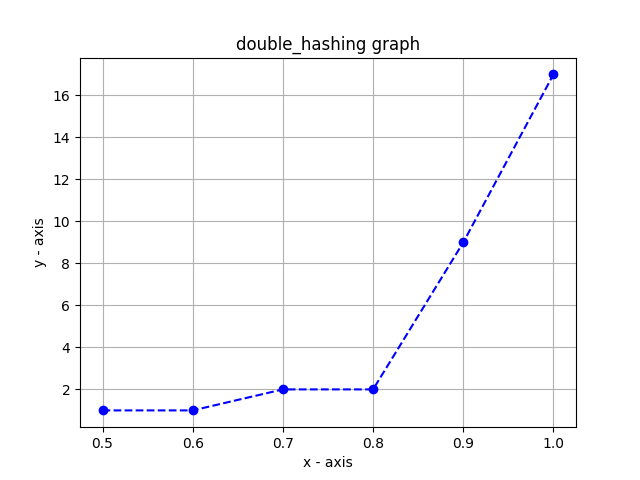
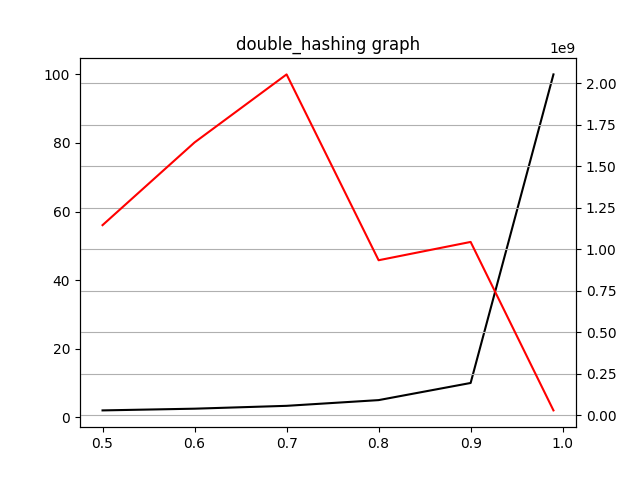
everything is working

diff --git a/probing.cpp b/probing.cpp
@@ -1,4 +1,3 @@
-
 #include <iostream>
 #include <fstream>
 #include <math.h>
@@ -16,12 +15,12 @@ void clearFiles();
 void GenerateArray(int list[], int amount);
 int hashFunction(int key, int n);
 int hashFunction2(int key, int size, int prime);
-void quadraticProbing(int array[], HashEl table[], int hashSize,
+void quadraticProbing(int array[], int hashSize,
                       int arraySize, double loadFactor);
-void linearProbing(int array[], HashEl table[], int hashSize,
+void linearProbing(int array[], int hashSize,
                    int arraySize, double loadFactor);
 
-void doubleHashing(int array[], HashEl table[], int hashSize,
+void doubleHashing(int array[], int hashSize,
                    int arraySize, double loadFactor);
 
 void myHashProbing(int array[], int hashSize,
@@ -30,10 +29,9 @@ void myHashProbing(int array[], int hashSize,
 int main()
 {
 
-    int max = 10;
+    int max = 1000000;
     double loadfactor = 0.5;
     int hashSize = (max);
-    HashEl *table = new HashEl[hashSize];
     int *array;
     int arraySize = 0;
 
@@ -41,29 +39,19 @@ int main()
 
     while (loadfactor <= 0.99)
     {
-        //cout << "Load factor " << loadfactor << endl;
         arraySize = (int)ceil(max * loadfactor);
-        cout << "\nnumber ele "<< arraySize << endl;
+        
         array = new int[arraySize];
         GenerateArray(array, arraySize);
 
-        // cout << "\nQuadratic Probing" << endl;
-        //quadraticProbing(array, table, hashSize, arraySize, loadfactor);
-        //table = new HashEl[hashSize];
+        quadraticProbing(array, hashSize, arraySize, loadfactor);
+        
 
-        // cout << "***********************" << endl;
-
-        //cout << "\nLinear Probing" << endl;
-       //linearProbing(array, table, hashSize, arraySize, loadfactor);
-        //table = new HashEl[hashSize];
-
-        // cout << "***********************" << endl;
-        // cout << "\nDouble Hashing Probing" << endl;
-     //   doubleHashing(array, table, hashSize, arraySize, loadfactor);
+        linearProbing(array, hashSize, arraySize, loadfactor);
+ 
+        doubleHashing(array, hashSize, arraySize, loadfactor);
         myHashProbing(array,  hashSize, arraySize, loadfactor);
-        //table = new HashEl[hashSize];
-
-        // cout << "***********************" << endl;
+    
 
         loadfactor = loadfactor + 0.1;
 
@@ -73,18 +61,18 @@ int main()
     }
 
     delete[] array;
-    delete[] table;
+    
 
     return 0;
 }
 
-void quadraticProbing(int array[], HashEl table2[], int hashSize, int arraySize, double loadFactor)
+void quadraticProbing(int array[], int hashSize, int arraySize, double loadFactor)
 {
     HashEl *table = new HashEl[hashSize];
    
     ofstream resultFile("results/quadratic_probing.txt", std::ios::app);
 
-    int numProbes = 0;
+    int32_t numProbes = 0;
 
 
     for (int i = 0; i < arraySize; i++)
@@ -96,7 +84,7 @@ void quadraticProbing(int array[], HashEl table2[], int hashSize, int arraySize,
         
         if(table[index].set == false){
 
-           cout << "\n INSERT \n" <<endl;
+         
            table[index].set = true;
              table[index].key = keyHash;
            table[index].value = array[i];
@@ -126,14 +114,14 @@ void quadraticProbing(int array[], HashEl table2[], int hashSize, int arraySize,
     resultFile.close();
 }
 
-void linearProbing(int array[], HashEl table2[], int hashSize,
+void linearProbing(int array[],  int hashSize,
                    int arraySize, double loadFactor)
 {
     HashEl *table = new HashEl[hashSize];
 
     ofstream resultFile("results/linear_probing.txt", std::ios::app);
 
-    int numProbes = 0;
+    int32_t numProbes = 0;
 
    
     for (int i = 0; i < arraySize; i++)
@@ -173,48 +161,42 @@ void linearProbing(int array[], HashEl table2[], int hashSize,
     resultFile.close();
 }
 
-void doubleHashing(int array[], HashEl table2[], int hashSize,
+void doubleHashing(int array[], int hashSize,
                    int arraySize, double loadFactor)
 {
      HashEl *table = new HashEl[hashSize];
     ofstream resultFile("results/double_hashing.txt", std::ios::app);
 
     int32_t numProbes = 0;
-    //int prime = getPrime(hashSize);
   
-
     for (int i = 0; i < arraySize; i++)
     {
         int x = 1;
         int keyHash = hashFunction(array[i], hashSize);
 
         int index = keyHash;
-       // cout << "num to insert " << array[i] << endl;
-       // cout << "num to insert " << array[i] << endl;
-
+       
         if(table[index].set == false){
-
-        //   cout << "\n INSERT \n" <<endl;
+ 
            table[index].set = true;
             table[index].value = array[i];
             table[index].key = keyHash;
-           // cout << "***index " << index << endl;
+         
 
         } else{
-           // int keyhash2 = hashFunction2(array[i], hashSize, 7);
+         
             while (table[index].set == true)
             {
                 int test = (x * (7 - (keyHash % 7)));
-               // cout << "test#### << " << test << endl;
+               
                 index = abs((keyHash + test) % hashSize);
                 x++;
 
                 numProbes++;
             }
              
-          //   cout << "***index " << index << endl;
+        
              table[index].set = true;
-             //cout << "\n INSERT 2 \n" <<endl;
              table[index].key = keyHash;
              table[index].value = array[i];
         }
@@ -222,8 +204,6 @@ void doubleHashing(int array[], HashEl table2[], int hashSize,
         
     }
 
-
-    cout << "Probing amount : " << numProbes << endl;
 
     resultFile << "x = " << loadFactor << " y = "
                << abs(numProbes) << endl;
@@ -236,7 +216,7 @@ void myHashProbing(int array[], int hashSize,
                    int arraySize, double loadFactor){
     HashEl *table = new HashEl[hashSize];
    
-    ofstream resultFile("results/quadratic_probing.txt", std::ios::app);
+    ofstream resultFile("results/my_hash_probing.txt", std::ios::app);
 
     int numProbes = 0;
 
@@ -258,10 +238,11 @@ void myHashProbing(int array[], int hashSize,
 
             while (table[index].set == true)
             {
-                index = ((keyHash + keyHash) % 7) % hashSize;
+                
+                index = (keyHash + (x * x * x) + (keyHash/2)) % hashSize;
                 x = x + 1;
 
-                keyHash= (keyHash + 7) * x;
+               // keyHash= (keyHash + 7) * x;
 
                 numProbes++;
             }
@@ -285,17 +266,6 @@ int hashFunction(int key, int n)
     return abs(key % n);
 }
 
-int hashFunction2(int key, int size, int prime)
-{
-    key %= size;
-
-    if(key < 0){
-        key += size;
-    }
-    int test = prime - key % prime;
-    cout << " testtt " << test << endl;
-    return test;
-}
 
 void GenerateArray(int list[], int amount)
 {
@@ -313,26 +283,5 @@ void clearFiles()
     remove("results/quadratic_probing.txt");
     remove("results/linear_probing.txt");
     remove("results/double_hashing.txt");
-    //remove( "results/quadratic_probing.txt");
+    remove( "results/my_hash_probing.txt");
 }
-
-int getPrime(int hashSize)
-{  
-        for (int i = hashSize - 1; i >= 1; i--) {
-  
-            int count = 0;
-
-            for (int j = 2; j * j <= i; j++)
-  
-                if (i % j == 0)
-  
-                
-                    count++;
-
-            if (count == 0)
-
-                return i;
-        }
-
-        return 3;
-    }

diff --git a/graph.py b/graph.py
@@ -5,8 +5,8 @@ import numpy as np
 
 def main():
     # stores the file names of the results in the results folder
-    # resultsFiles = ["quadratic_probing", "linear_probing", "double_hashing"]
-    resultsFiles = ["linear_probing", "double_hashing"]
+    resultsFiles = ["quadratic_probing", "linear_probing", "double_hashing", "my_hash_probing"]
+    
     xs = []
     ys = []
 
